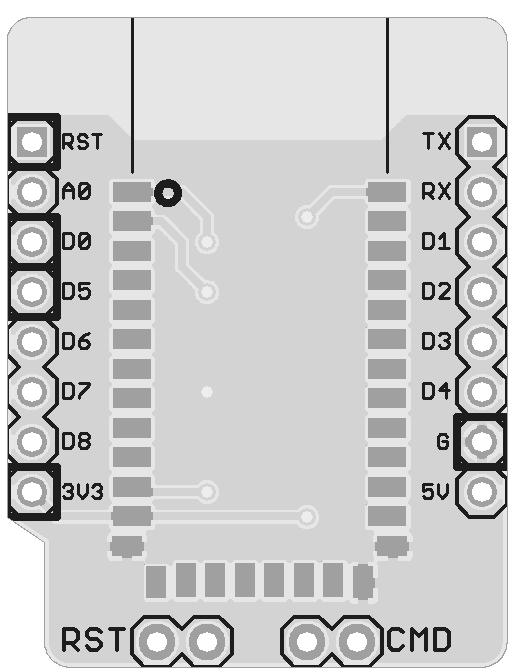
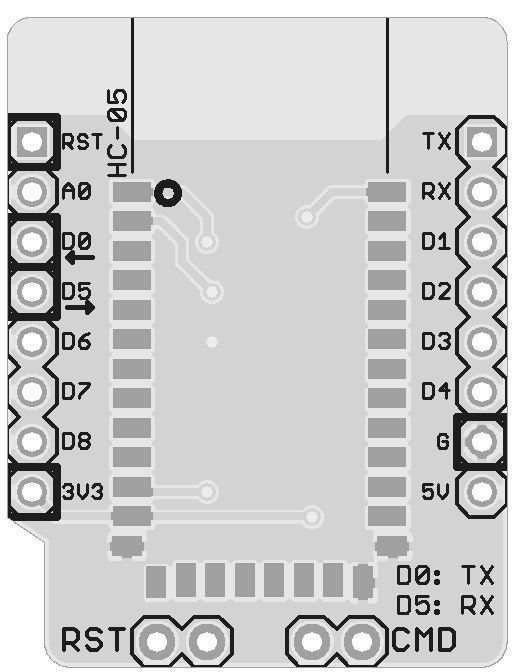
Improved silkscreen and updated preview images

diff --git a/README.md b/README.md
@@ -14,7 +14,7 @@ Features:
  * Jumper to link Bluetooth reset to D1 Mini reset.
  * Jumper to place Bluetooth module into command mode for reflashing, etc.
 
-![Oblique view](https://raw.githubusercontent.com/SuperHouse/D1MBLUE/master/images/D1MBLUE-oblique-v1_0.png)
+![Oblique view](https://raw.githubusercontent.com/SuperHouse/D1MBLUE/master/images/D1MBLUE-oblique-v1_0.jpg)
 
 ![Top view](https://raw.githubusercontent.com/SuperHouse/D1MBLUE/master/images/D1MBLUE-top-v1_0.png)
 
